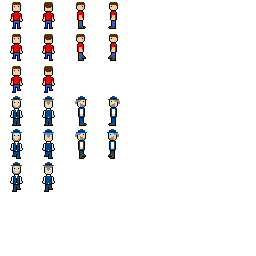
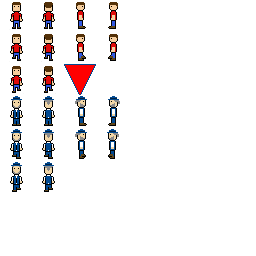
Fixed scene switcher

Changed region(s): [[0.25, 0.25, 0.375, 0.375]]

diff --git a/src/objects/npcs/MrDiamond.java b/src/objects/npcs/MrDiamond.java
@@ -16,13 +16,15 @@ public class MrDiamond extends NPC {
     private int atPosition = -1;
     private Vector2f sideA, sideB, sideC;
     char facing;
-    Sprite n1, n2;
+    Sprite visionCone;
     public MrDiamond(){
         super(128);
         setTexture("characterSheet.png");
         animationManager.textureCoord = new Vector2f(0, 0.5f);
-        n1 = new Sprite();
-        n2 = new Sprite();
+        visionCone = new Sprite(256, 0);
+        visionCone.setTexture("characterSheet.png");
+        visionCone.animationManager.textureCoord = new Vector2f(0.25f, 0.25f);
+        visionCone.animationManager.add(new Animation("idle", new Vector2f(0.25f, 0.25f), 0.1f, 1));
         animationManager.add(new Animation("Down", new Vector2f(0, 0.375f), 0.2f, 2));
         animationManager.add(new Animation("Up", new Vector2f((0.125f * 1), 0.375f), 0.2f, 2));
         animationManager.add(new Animation("Left", new Vector2f((0.125f * 2), 0.375f), 0.2f, 1));
@@ -41,9 +43,8 @@ public class MrDiamond extends NPC {
     }
 
     public void update(){
-        if(n1.currentScene == null){
-            n1.currentScene = currentScene;
-            n2.currentScene = currentScene;
+        if(visionCone.currentScene == null){
+            visionCone.currentScene = currentScene;
         }
         if((Math.abs(velocity.y) - Math.abs(velocity.x)) > 0){
             if(velocity.y > 0){
@@ -60,6 +61,7 @@ public class MrDiamond extends NPC {
         }
         super.update();
         sideA = new Vector2f(position.x, position.y);
+
         switch (facing){
             case 'U':
                 sideB = new Vector2f(sideA.x - 150, position.y + (int)(500.0 * (16/9.0)));
@@ -86,11 +88,8 @@ public class MrDiamond extends NPC {
                 sideC = new Vector2f(sideA.x + 150, position.y + (int)(500.0 * (16/9.0)));
                 break;
         }
-
-        n1.position = new Vector3f(sideB.x, sideB.y, 0);
-        n2.position = new Vector3f(sideC.x, sideC.y, 0);
-        n1.update();
-        n2.update();
+        visionCone.position = new Vector3f(sideB.x, sideB.y, 0);
+        visionCone.update();
         if(position.distance(currentScene.players.get(0).position) < 600){
             if(triangularCollision(currentScene.players.get(0))){
                 System.out.print("HEJ");
@@ -115,8 +114,7 @@ public class MrDiamond extends NPC {
 
     public void render(){
         super.render();
-        n1.render();
-        n2.render();
+        visionCone.render();
     }
     private boolean triangularCollision(Sprite other){
         Vector2f p = new Vector2f(other.position.x, other.position.y);
